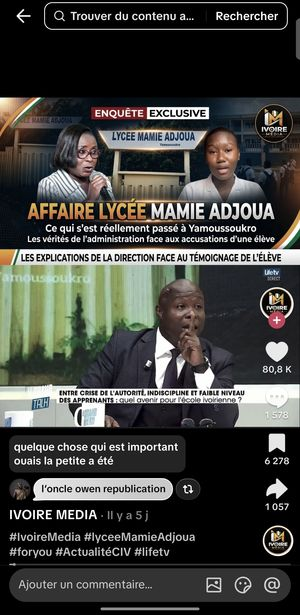
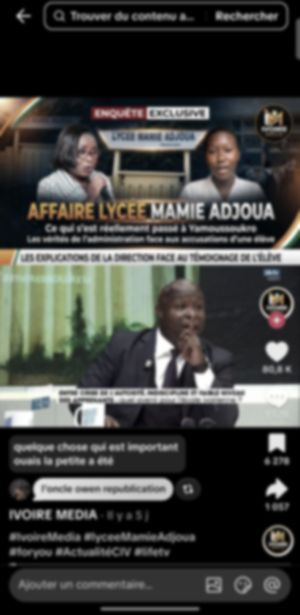
Mur d'écrans plus discret (opacité réduite, flou léger, voile plus sombre)
Claude-Session: https://claude.ai/code/session_015koedQ5TRT5nPk8J2nKYcB

diff --git a/mamie-adjoua-documentary/src/components/base.tsx b/mamie-adjoua-documentary/src/components/base.tsx
@@ -8,7 +8,7 @@ import media from "../data/media.json";
 const SOCIAL_SCREENS = ((media as { socialScreens?: string[] }).socialScreens ?? []) as string[];
 
 /** Mur d'écrans de réseaux sociaux qui défile lentement en arrière-plan (polémique virale). */
-export const SocialWall: React.FC<{ opacity?: number; seed?: number }> = ({ opacity = 0.6, seed = 0 }) => {
+export const SocialWall: React.FC<{ opacity?: number; seed?: number }> = ({ opacity = 0.3, seed = 0 }) => {
   const frame = useCurrentFrame();
   const screens = SOCIAL_SCREENS;
   if (!screens.length) return null;
@@ -50,7 +50,7 @@ export const Backdrop: React.FC<{ tint?: string; children?: React.ReactNode; wal
     {wall ? <SocialWall /> : null}
     <AbsoluteFill
       style={{
-        background: `radial-gradient(120% 80% at 50% 35%, ${tint ?? "rgba(22,26,32,0.6)"} 0%, rgba(11,13,16,0.8) 75%)`,
+        background: `radial-gradient(120% 80% at 50% 35%, ${tint ?? "rgba(22,26,32,0.72)"} 0%, rgba(11,13,16,0.88) 75%)`,
       }}
     />
     {children}

diff --git a/mamie-adjoua-documentary/scripts/extract-assets.py b/mamie-adjoua-documentary/scripts/extract-assets.py
@@ -81,7 +81,8 @@ def main() -> None:
         im = Image.open(p).convert("RGB")
         im = im.crop((0, 150, im.width, im.height))
         im = im.resize((300, int(300 * im.height / im.width)), Image.LANCZOS)
-        im = ImageEnhance.Color(im).enhance(0.55)
+        im = ImageEnhance.Color(im).enhance(0.45)
+        im = im.filter(ImageFilter.GaussianBlur(1.4))  # léger flou : texture d'arrière-plan
         dst = social_dir / f"ecran-{idx:02d}.jpg"
         im.save(dst, quality=80)
         keep.append(f"images/social/{dst.name}")

diff --git a/mamie-adjoua-documentary/RAPPORT-QC.md b/mamie-adjoua-documentary/RAPPORT-QC.md
@@ -45,7 +45,7 @@ Les jours de la semaine ont été vérifiés au calendrier : jeudi 22/10, lundi 
 ## 2 sexies. Mur d'écrans et photos du journal (retour client)
 
 - Arrière-plan : un mur de 16 captures de publications sur les réseaux sociaux défile lentement, en 4 colonnes inclinées,
-  derrière toutes les scènes sur fond sombre. Il illustre l'ampleur de la polémique.
+  derrière toutes les scènes sur fond sombre. Il illustre l'ampleur de la polémique. À la demande du client, il est volontairement discret (opacité 30 %, léger flou, voile sombre) pour faire ressortir le contenu.
 - Captures écartées : visuels marqués « Contient des médias générés par IA » (bus volant, fausse scène « 13 adultes »),
   appel téléphonique privé, collage sans rapport. La barre d'état du téléphone du client est retirée.
 - La une de L'Éléphant Déchaîné (capture d'une publication en ligne) a permis d'extraire la vraie une, la photo du bus
